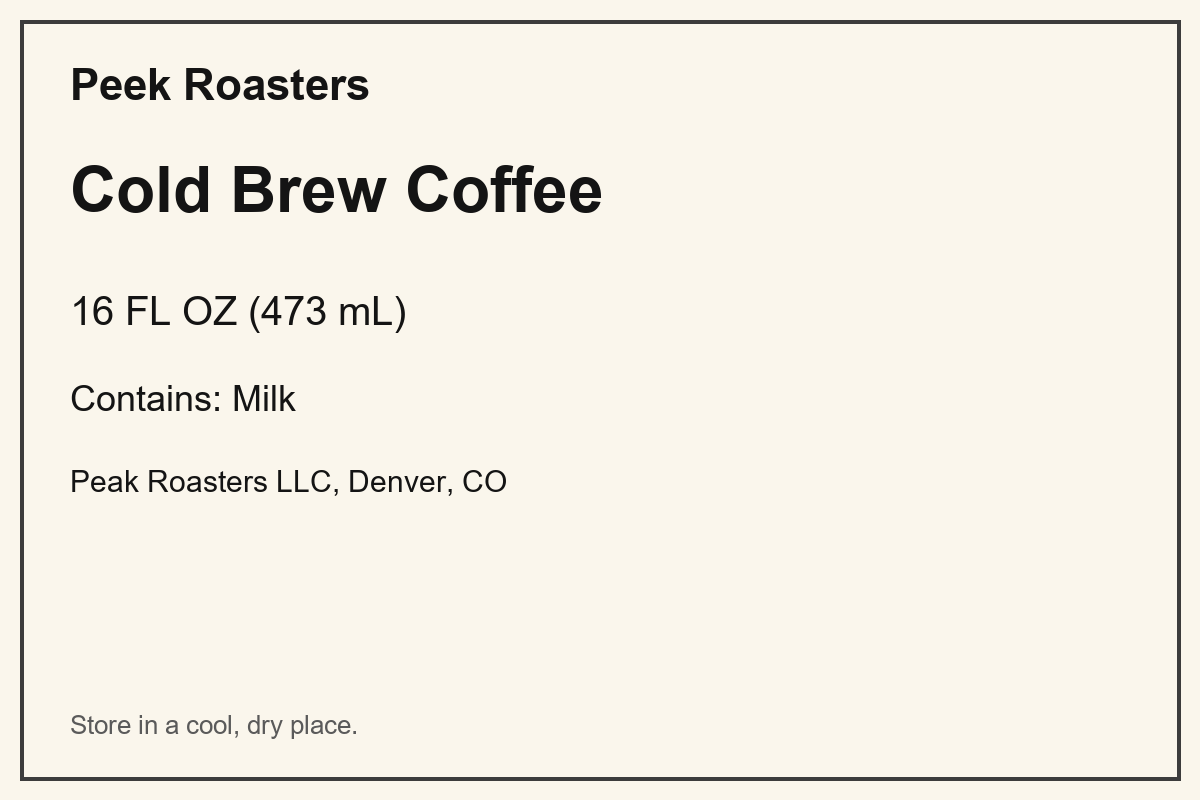
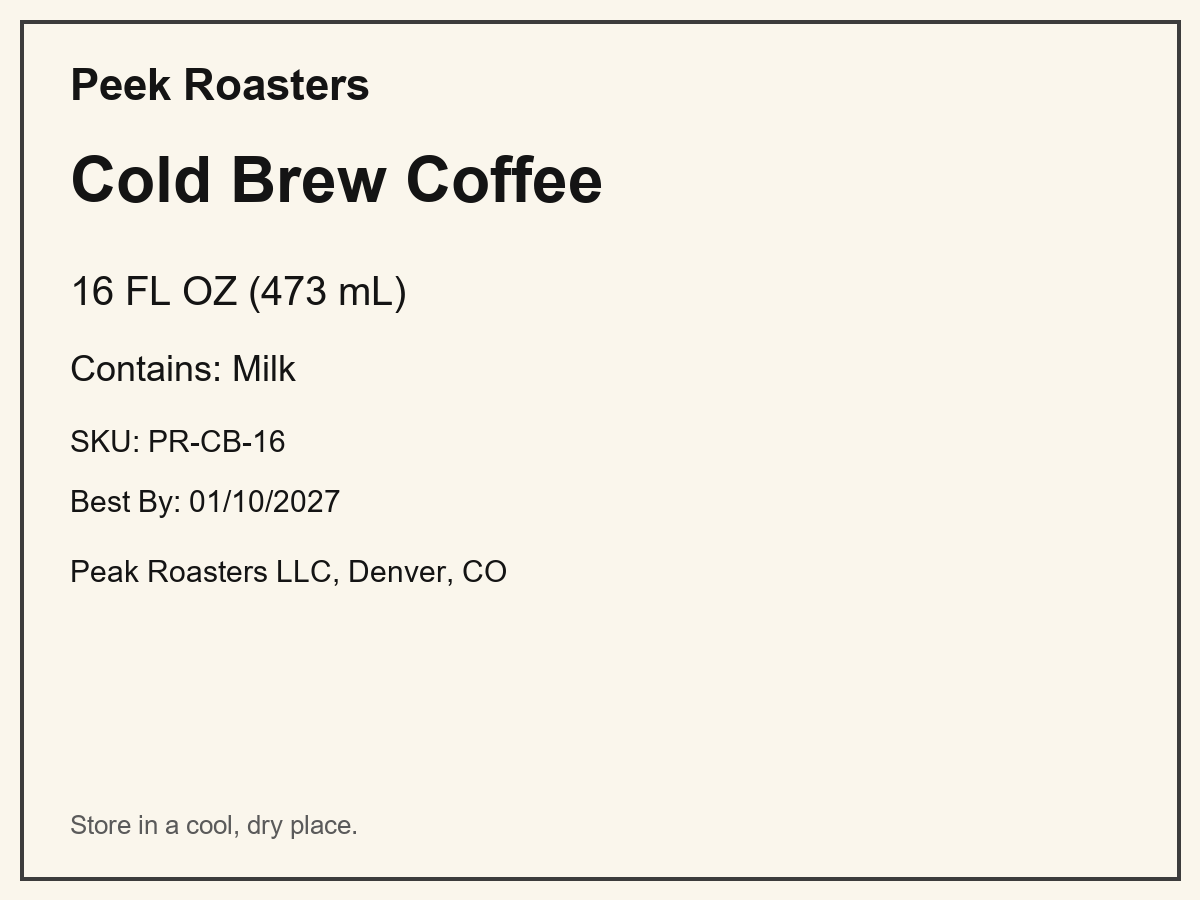
OCR: switch to rapidocr 3.x (headless OpenCV); add SKU/best-by fields and harder low-quality sample
rapidocr_onnxruntime pulls desktop opencv-python, which crashes on Vercel (libxcb.so.1).
rapidocr 3.x bundles its models and uses opencv-python-headless. Its newer models read the
old blurry sample perfectly, so the degraded sample was re-tuned until OCR misreads the date
at 0.87 confidence: the 'uncertain' fixture verification needs.

diff --git a/data/sample_labels/generate_samples.py b/data/sample_labels/generate_samples.py
@@ -3,11 +3,11 @@
 OWNER: Tray
 
 Run from the repo root:  python data/sample_labels/generate_samples.py
-Writes: data/sample_labels/*.png, specs.json (approved specs), manifest.json (expected results)
+Writes: data/sample_labels/*.png|jpg, specs.json (approved specs), manifest.json (expected results)
 
-Each label has a correct version and one or more defective versions, so OCR and
-verification can be tested against known answers. Real photos of labels can be
-dropped in this folder too; add them to manifest.json by hand.
+Each product has a correct label and one or more defective ones, so OCR and verification
+can be tested against known answers. To add real photos, put them in this folder and add
+them to manifest.json by hand (re-running this script overwrites manifest.json).
 """
 from __future__ import annotations
 
@@ -18,7 +18,7 @@ from pathlib import Path
 from PIL import Image, ImageDraw, ImageFilter, ImageFont
 
 OUT = Path(__file__).parent
-W, H = 1200, 800
+W, H = 1200, 900
 
 SPECS = {
     "granola": {
@@ -28,6 +28,8 @@ SPECS = {
             "product_name": "Golden Harvest Granola",
             "net_contents": "Net Wt 12 oz (340 g)",
             "allergens": "Contains: Oats, Almonds, Milk",
+            "sku": "SKU: SF-GRN-12",
+            "best_by": "Best By: 03/15/2027",
             "manufacturer": "Sunrise Farms Co., Portland, OR",
         },
     },
@@ -38,6 +40,8 @@ SPECS = {
             "product_name": "Cold Brew Coffee",
             "net_contents": "16 FL OZ (473 mL)",
             "allergens": "Contains: Milk",
+            "sku": "SKU: PR-CB-16",
+            "best_by": "Best By: 01/10/2027",
             "manufacturer": "Peak Roasters LLC, Denver, CO",
         },
     },
@@ -48,25 +52,48 @@ SPECS = {
             "product_name": "Daily Multivitamin",
             "net_contents": "60 Tablets",
             "allergens": "Contains: Soy",
+            "sku": "SKU: VC-MV-060",
+            "best_by": "Best By: 08/31/2028",
             "manufacturer": "VitaCore Health, Austin, TX",
         },
     },
 }
 
-# (file stem, spec id, field overrides, post-processing, expected field flags)
+# (file name, spec id, field overrides, degrade?, expected field flags)
 # overrides: None removes the field from the label; a string replaces its value.
 SAMPLES = [
-    ("granola_correct", "granola", {}, None, {}),
-    ("granola_wrong_net_weight", "granola", {"net_contents": "Net Wt 10 oz (283 g)"}, None,
+    ("granola_correct.png", "granola", {}, False, {}),
+    ("granola_wrong_net_weight.png", "granola", {"net_contents": "Net Wt 10 oz (283 g)"}, False,
      {"net_contents": "incorrect"}),
-    ("granola_missing_allergens", "granola", {"allergens": None}, None,
+    ("granola_missing_allergens.png", "granola", {"allergens": None}, False,
      {"allergens": "missing"}),
-    ("coffee_correct", "coffee", {}, None, {}),
-    ("coffee_brand_typo", "coffee", {"brand": "Peek Roasters"}, None,
+    ("coffee_correct.png", "coffee", {}, False, {}),
+    ("coffee_brand_typo.png", "coffee", {"brand": "Peek Roasters"}, False,
      {"brand": "incorrect"}),
-    ("vitamin_correct", "vitamin", {}, None, {}),
-    # Degraded photo: text is all there but OCR confidence drops. Treat any flags as acceptable.
-    ("vitamin_low_quality", "vitamin", {}, "degrade", {"*": "uncertain_or_match"}),
+    ("coffee_wrong_best_by.png", "coffee", {"best_by": "Best By: 01/10/2026"}, False,
+     {"best_by": "incorrect"}),
+    ("vitamin_correct.png", "vitamin", {}, False, {}),
+    ("vitamin_wrong_sku.png", "vitamin", {"sku": "SKU: VC-MV-090"}, False,
+     {"sku": "incorrect"}),
+    # Blurry, low-res, noisy JPEG of a CORRECT label. OCR garbles some lines with low confidence
+    # (allergens 0.64, best_by 0.87 reads "06/312028"), so those must be "uncertain", not "incorrect".
+    ("vitamin_low_quality.jpg", "vitamin", {}, True,
+     {"allergens": "uncertain", "best_by": "uncertain"}),
+]
+
+NOTES = {
+    "vitamin_low_quality.jpg": "manufacturer reads 'VitaCore Heath' at 0.95 confidence; flagging it "
+    "incorrect is an acceptable false alarm (status is needs_review either way).",
+}
+
+LAYOUT = [  # field, font size, bold, space after
+    ("brand", 44, True, 40),
+    ("product_name", 64, True, 60),
+    ("net_contents", 40, False, 40),
+    ("allergens", 36, False, 40),
+    ("sku", 30, False, 30),
+    ("best_by", 30, False, 40),
+    ("manufacturer", 30, False, 40),
 ]
 
 
@@ -86,57 +113,47 @@ def render(fields: dict[str, str | None]) -> Image.Image:
     d.rectangle([20, 20, W - 20, H - 20], outline=(60, 60, 60), width=4)
 
     y = 60
-    layout = [
-        ("brand", font(44, bold=True)),
-        ("product_name", font(64, bold=True)),
-        ("net_contents", font(40)),
-        ("allergens", font(36)),
-        ("manufacturer", font(30)),
-    ]
-    for key, f in layout:
-        value = fields.get(key)
-        if value:
-            d.text((70, y), value, font=f, fill=(20, 20, 20))
-        y += f.size + 70 if key == "product_name" else f.size + 50
+    for key, size, bold, gap in LAYOUT:
+        if value := fields.get(key):
+            d.text((70, y), value, font=font(size, bold), fill=(20, 20, 20))
+        y += size + gap  # keep the gap when a field is missing, like a real misprint
 
     d.text((70, H - 90), "Store in a cool, dry place.", font=font(26), fill=(90, 90, 90))
     return img
 
 
 def degrade(img: Image.Image) -> Image.Image:
+    """Simulate a bad phone photo. Settings were tuned so OCR drops below ~0.7 confidence on
+    some lines; the OCR models read anything milder perfectly."""
     rnd = random.Random(651)  # fixed seed, so the output is the same on every run
-    img = img.rotate(3, expand=False, fillcolor=(250, 246, 236))
-    img = img.filter(ImageFilter.GaussianBlur(2.2))
+    img = img.rotate(3, fillcolor=(250, 246, 236)).filter(ImageFilter.GaussianBlur(3.0))
     px = img.load()
-    for _ in range(25000):
-        x, y = rnd.randrange(W), rnd.randrange(H)
+    for _ in range(20000):
         v = rnd.randrange(120, 255)
-        px[x, y] = (v, v, v)
-    small = img.resize((W // 2, H // 2))
-    return small
+        px[rnd.randrange(W), rnd.randrange(H)] = (v, v, v)
+    return img.resize((W // 3, H // 3))
 
 
 def main() -> None:
     (OUT / "specs.json").write_text(json.dumps(SPECS, indent=2) + "\n")
 
     manifest = []
-    for stem, spec_id, overrides, post, flags in SAMPLES:
+    for filename, spec_id, overrides, degraded, flags in SAMPLES:
         fields: dict[str, str | None] = {**SPECS[spec_id]["fields"], **overrides}
         img = render(fields)
-        if post == "degrade":
-            img = degrade(img)
-        filename = f"{stem}.png"
-        img.save(OUT / filename)
+        if degraded:
+            degrade(img).save(OUT / filename, "JPEG", quality=40)
+        else:
+            img.save(OUT / filename)
 
-        expected_status = "pass" if not flags else "needs_review"
-        if flags == {"*": "uncertain_or_match"}:
-            expected_status = "pass_or_needs_review"
         manifest.append({
             "image": filename,
             "spec_id": spec_id,
             "printed_fields": {k: v for k, v in fields.items() if v},
-            "expected_status": expected_status,
+            "degraded": degraded,
+            "expected_status": "needs_review" if flags else "pass",
             "expected_flags": flags,
+            **({"notes": NOTES[filename]} if filename in NOTES else {}),
         })
 
     (OUT / "manifest.json").write_text(json.dumps(manifest, indent=2) + "\n")

diff --git a/backend/tests/test_ocr.py b/backend/tests/test_ocr.py
@@ -119,7 +119,7 @@ needs_samples = pytest.mark.skipif(not manifest, reason="run generate_samples.py
 @needs_samples
 @pytest.mark.parametrize(
     "sample",
-    [s for s in manifest if s["expected_status"] != "pass_or_needs_review"],
+    [s for s in manifest if not s["degraded"]],
     ids=lambda s: s["image"],
 )
 def test_ocr_reads_every_printed_field(sample):
@@ -136,8 +136,11 @@ def test_ocr_reads_every_printed_field(sample):
 
 
 @needs_samples
-def test_degraded_label_scores_lower_confidence_than_clean():
+def test_degraded_label_flags_its_garbled_lines_as_low_confidence():
+    """The blurry label is the 'uncertain' fixture: OCR must still read it, and must report low
+    confidence on the lines it garbles, or verification can't tell a bad photo from a bad label."""
     clean = ocr.extract_text((SAMPLES / "vitamin_correct.png").read_bytes())
-    noisy = ocr.extract_text((SAMPLES / "vitamin_low_quality.png").read_bytes())
-    assert noisy.text  # still reads something
+    noisy = ocr.extract_text((SAMPLES / "vitamin_low_quality.jpg").read_bytes())
+    assert "vitacore" in norm(noisy.text)
     assert noisy.mean_confidence < clean.mean_confidence
+    assert min(l.confidence for l in noisy.lines) < 0.9

diff --git a/backend/app/ocr.py b/backend/app/ocr.py
@@ -111,19 +111,23 @@ def build_result(lines: list[OcrLine], engine: str) -> OcrResult:
 @lru_cache(maxsize=1)
 def _rapidocr_engine():
     # Loading the ONNX models takes about 1 s, so do it once per process.
-    from rapidocr_onnxruntime import RapidOCR
+    # rapidocr 3.x bundles its models in the wheel and uses headless OpenCV (no libGL/libxcb),
+    # which is what lets it run on Vercel. Don't switch back to rapidocr_onnxruntime.
+    from rapidocr import RapidOCR
 
-    return RapidOCR()
+    return RapidOCR(params={"Global.log_level": "warning"})
 
 
 def _run_rapidocr(image: Image.Image) -> list[OcrLine]:
     import numpy as np
 
     try:
-        result, _elapsed = _rapidocr_engine()(np.array(image.convert("RGB")))
+        out = _rapidocr_engine()(np.array(image.convert("RGB")))
     except Exception as e:  # the engine raises assorted types on bad input
         raise OcrError(f"RapidOCR failed: {e}") from e
-    return parse_rapidocr(result or [])
+    if out.boxes is None:  # nothing detected
+        return []
+    return parse_rapidocr(list(zip(out.boxes.tolist(), out.txts, out.scores)))
 
 
 def parse_rapidocr(result: list) -> list[OcrLine]:

diff --git a/data/sample_labels/README.md b/data/sample_labels/README.md
@@ -2,7 +2,7 @@
 
 **Owner:** Tray
 
-Synthetic labels with known answers. Regenerate them with:
+Synthetic labels with known answers, used by the OCR unit tests and the E2E suite. Regenerate them with:
 
 ```bash
 python data/sample_labels/generate_samples.py
@@ -11,14 +11,18 @@ python data/sample_labels/generate_samples.py
 | File | Spec | Expected |
 |---|---|---|
 | granola_correct.png | granola | pass |
-| granola_wrong_net_weight.png | granola | needs_review: `net_contents` incorrect (10 oz) |
+| granola_wrong_net_weight.png | granola | needs_review: `net_contents` incorrect (10 oz vs 12 oz) |
 | granola_missing_allergens.png | granola | needs_review: `allergens` missing |
 | coffee_correct.png | coffee | pass |
 | coffee_brand_typo.png | coffee | needs_review: `brand` incorrect ("Peek") |
+| coffee_wrong_best_by.png | coffee | needs_review: `best_by` incorrect (2026 vs 2027) |
 | vitamin_correct.png | vitamin | pass |
-| vitamin_low_quality.png | vitamin | blurry, rotated, noisy; pass or uncertain |
+| vitamin_wrong_sku.png | vitamin | needs_review: `sku` incorrect (VC-MV-090 vs 060) |
+| vitamin_low_quality.jpg | vitamin | needs_review: correct label, bad photo; `allergens` and `best_by` **uncertain** |
 
-- `specs.json`: approved specs. POST each one to `/specs` to seed the demo.
-- `manifest.json`: machine-readable expectations for tests.
+- `specs.json`: the approved specs. POST each one to `/specs` to seed the demo.
+- `manifest.json`: the answer key: the fields printed on each label, the expected status and the per-field flags.
 
-To add real photos, drop them here and add an entry to `manifest.json` by hand (don't re-run the generator afterwards, or it will overwrite the manifest).
+`vitamin_low_quality.jpg` is the important one. OCR misreads its date as `06/312028`, with 0.87 confidence. Verification has to report that as *uncertain* (retake the photo), not *incorrect* (reject the batch). See [docs/api-contract.md](../../docs/api-contract.md).
+
+To add real photos, drop them here and add an entry to `manifest.json` by hand (re-running the generator overwrites it).
